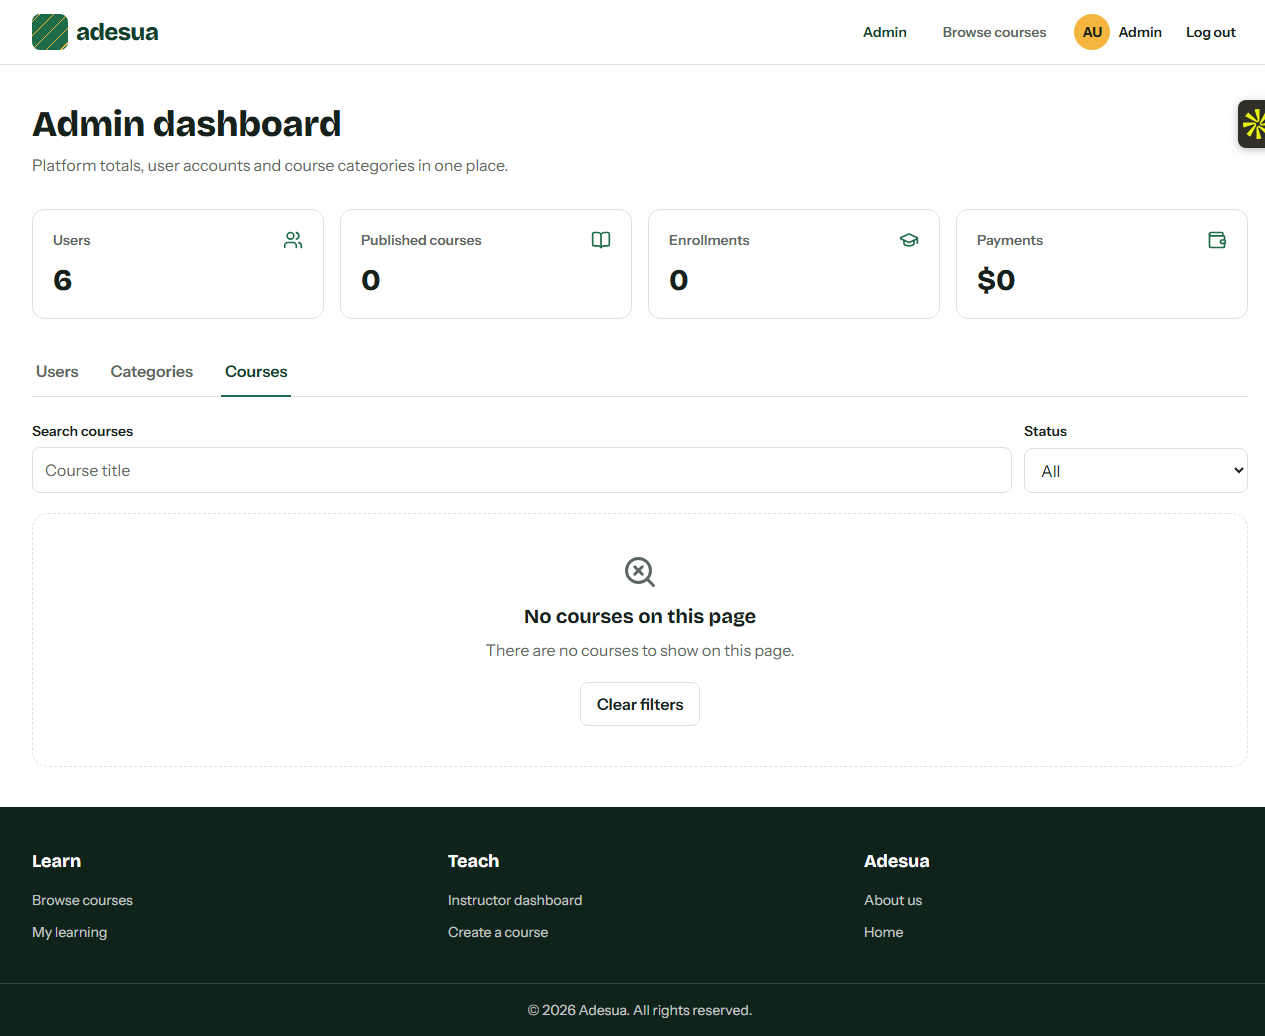
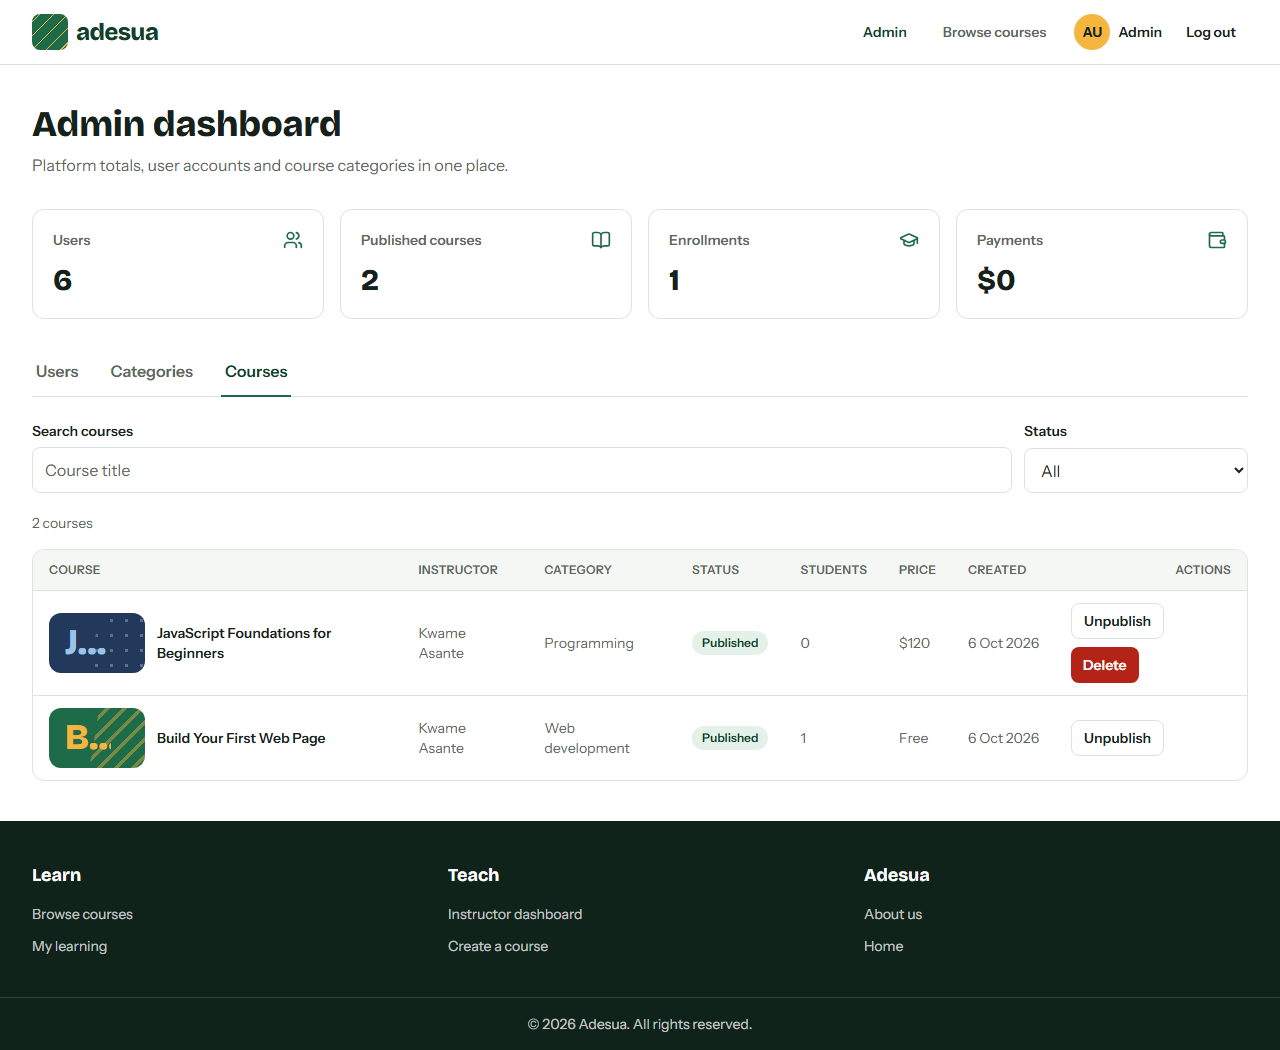
Refresh live demo screenshots and course guide

diff --git a/README.md b/README.md
@@ -88,7 +88,7 @@ The app opens at http://localhost:5173.
 
 ## Test accounts
 
-`npm run seed -- --yes` creates these accounts. **Every account uses the password `Demo1234`.**
+`npm run seed -- --yes` creates these accounts. **Every account uses the password `Demo1234`.** The live demo's free course is enrolled by Kojo Ansah so the learning and lesson-player pages can be demonstrated.
 
 | Name | Email | Role |
 |---|---|---|
@@ -101,14 +101,14 @@ The app opens at http://localhost:5173.
 
 ## Screenshots
 
-These screenshots were captured from the live site. At the time of capture, the production API had no published courses or student enrollments. The course-details and lesson-player images show the unavailable state; no production content was created or changed to obtain screenshots.
+These screenshots were captured from the live site. The demo catalog includes a free course and a paid course. The Kojo Ansah demo account is enrolled in the free course; the paid course remains locked until checkout is completed.
 
 | Screen | 1280px | 390px |
 |---|---|---|
 | Home | ![Home at 1280px](docs/screenshots/home-1280.png) | ![Home at 390px](docs/screenshots/home-390.png) |
 | Browse courses | ![Browse courses at 1280px](docs/screenshots/courses-1280.png) | ![Browse courses at 390px](docs/screenshots/courses-390.png) |
-| Course details | ![Course details unavailable at 1280px](docs/screenshots/course-details-unavailable-1280.png) | — |
-| Lesson player | ![Lesson player unavailable at 1280px](docs/screenshots/lesson-player-unavailable-1280.png) | — |
+| Course details | ![Course details at 1280px](docs/screenshots/course-details-1280.png) | — |
+| Lesson player | ![Lesson player at 1280px](docs/screenshots/lesson-player-1280.png) | — |
 | My learning | ![My learning at 1280px](docs/screenshots/my-learning-1280.png) | — |
 | Instructor dashboard | ![Instructor dashboard at 1280px](docs/screenshots/instructor-dashboard-1280.png) | — |
 | Admin users | ![Admin users at 1280px](docs/screenshots/admin-users-1280.png) | — |
@@ -179,4 +179,3 @@ Adesua/
 - The demo checkout takes no real payments. "Paying" just marks the order as paid and enrolls the student.
 - The login token is stored in the browser's localStorage. That's simple, but a script injected into the page could read it. A production app would use an httpOnly cookie instead.
 - The free API may sleep after idle time. Its first request after sleeping can take up to a minute while it wakes.
-- The live demo currently has no published courses or student enrollments, so course details and the lesson player cannot be demonstrated until demo course data is restored.
